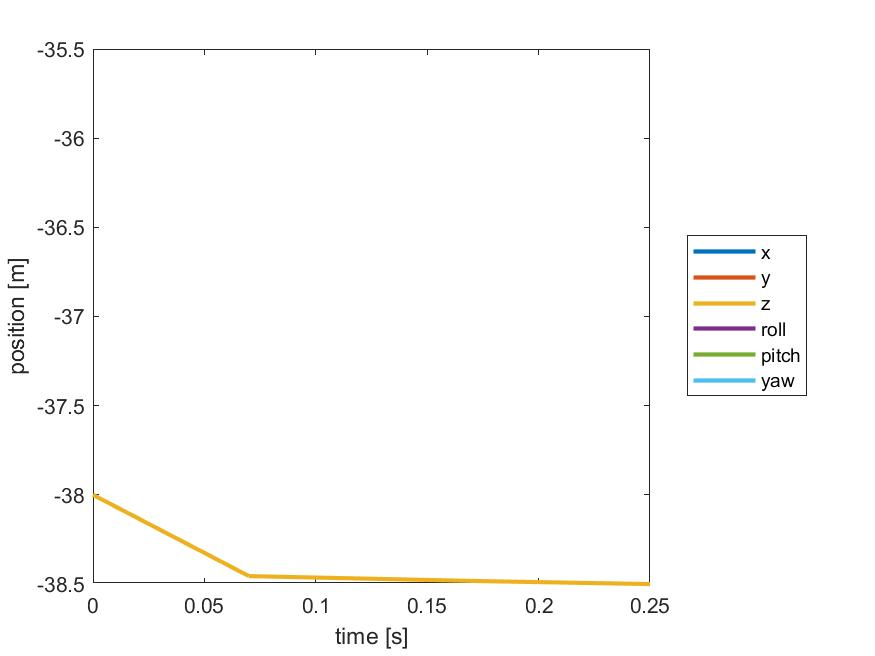
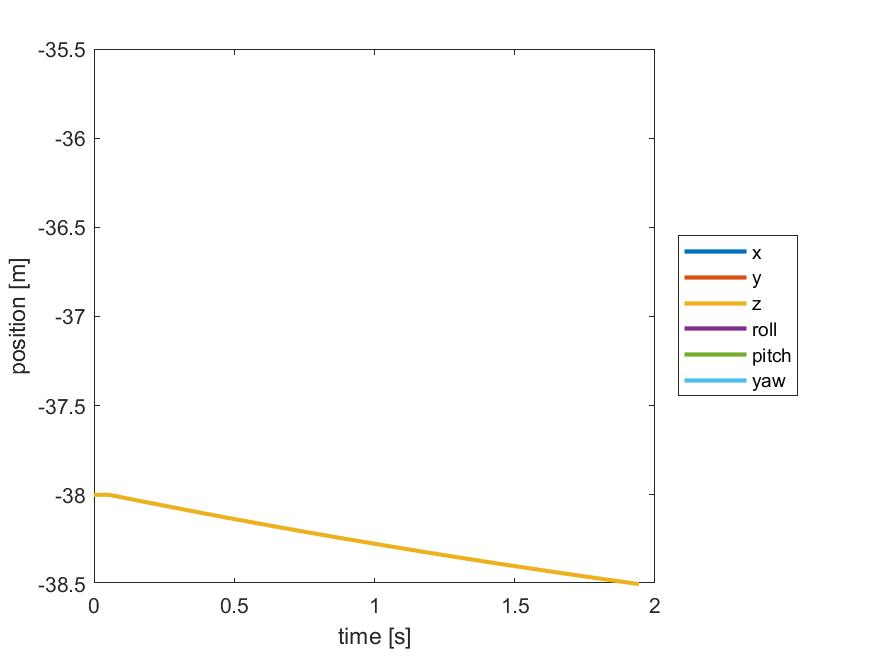
plot Sensor Distance

diff --git a/cooperative_robotics/plot_scripts/PrintPlot_2_1.m b/cooperative_robotics/plot_scripts/PrintPlot_2_1.m
@@ -34,15 +34,16 @@ lgd = legend('x','y','z','roll','pitch','yaw');
 lgd.Location = 'eastoutside';
 saveas(gcf,strcat(dir,'pose_pitch_roll_yaw_w',suffix,'.jpg'))
 
+
 figure();
-hplot = plot(plt.t, plt.p);
-ylim([-38.5,-35.5])
+hplot = plot(plt.t, plt.sensorDistance);
+%ylim([-38.5,-35.5])
 xlabel('time [s]')
 ylabel('position [m]')
 set(hplot, 'LineWidth', 2);
-lgd = legend('x','y','z','roll','pitch','yaw');
+lgd = legend('sensor distance');
 lgd.Location = 'eastoutside';
-saveas(gcf,strcat(dir,'pose_z_w',suffix,'.jpg'))
+saveas(gcf,strcat(dir,'sensor_dist',suffix,'.jpg'))
 
 
 

diff --git a/cooperative_robotics/MainRobust.m b/cooperative_robotics/MainRobust.m
@@ -139,7 +139,7 @@ for t = 0:deltat:end_time
 
     % enable this to have the simulation approximately evolving like real
     % time. Remove to go as fast as possible
-    SlowdownToRealtime(deltat);
+    %SlowdownToRealtime(deltat);
 end
 
 fclose(uVehicle);

diff --git a/cooperative_robotics/InitDataPlot.m b/cooperative_robotics/InitDataPlot.m
@@ -12,7 +12,7 @@ function [plt] = InitDataPlot( maxloops)
     plt.xdot_t = zeros(6, maxloops);
 
     plt.a = zeros(11, maxloops);
-
+    plt.sensorDistance = zeros(1, maxloops);
     plt.rho = zeros(1, maxloops)
 
 end

diff --git a/cooperative_robotics/UpdateDataPlot.m b/cooperative_robotics/UpdateDataPlot.m
@@ -29,5 +29,7 @@ plt.a(9, loop) = uvms.A.ha(1,1);
 plt.toolx(:,loop) = uvms.wTt(1,4);
 plt.tooly(:,loop) = uvms.wTt(2,4);
 
+plt.sensorDistance(:,loop) = uvms.sensorDistance;
+
 plt.rho(:,loop) = norm(uvms.rho);
 end

diff --git a/cooperative_robotics/PrintPlot.m b/cooperative_robotics/PrintPlot.m
@@ -1,6 +1,6 @@
 function [ ] = PrintPlot( plt )
 
-PrintPlot_default(plt)
+%PrintPlot_default(plt)
 %PrintPlot_1_1_horizontal_target(plt)
 %PrintPlot_1_1_ha_ena(plt)
 %PrintPlot_1_1_ha_not_ena(plt)
